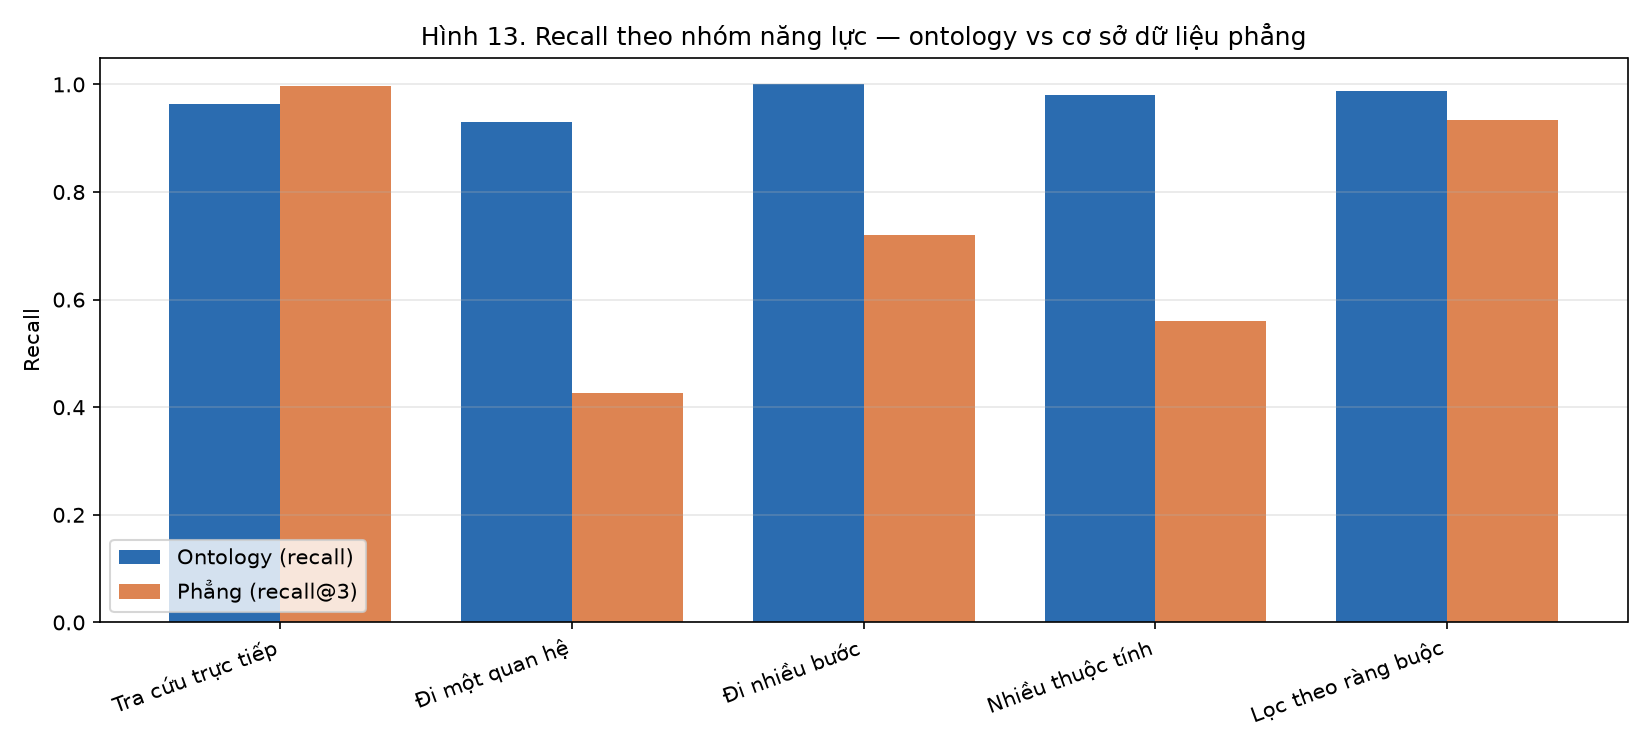
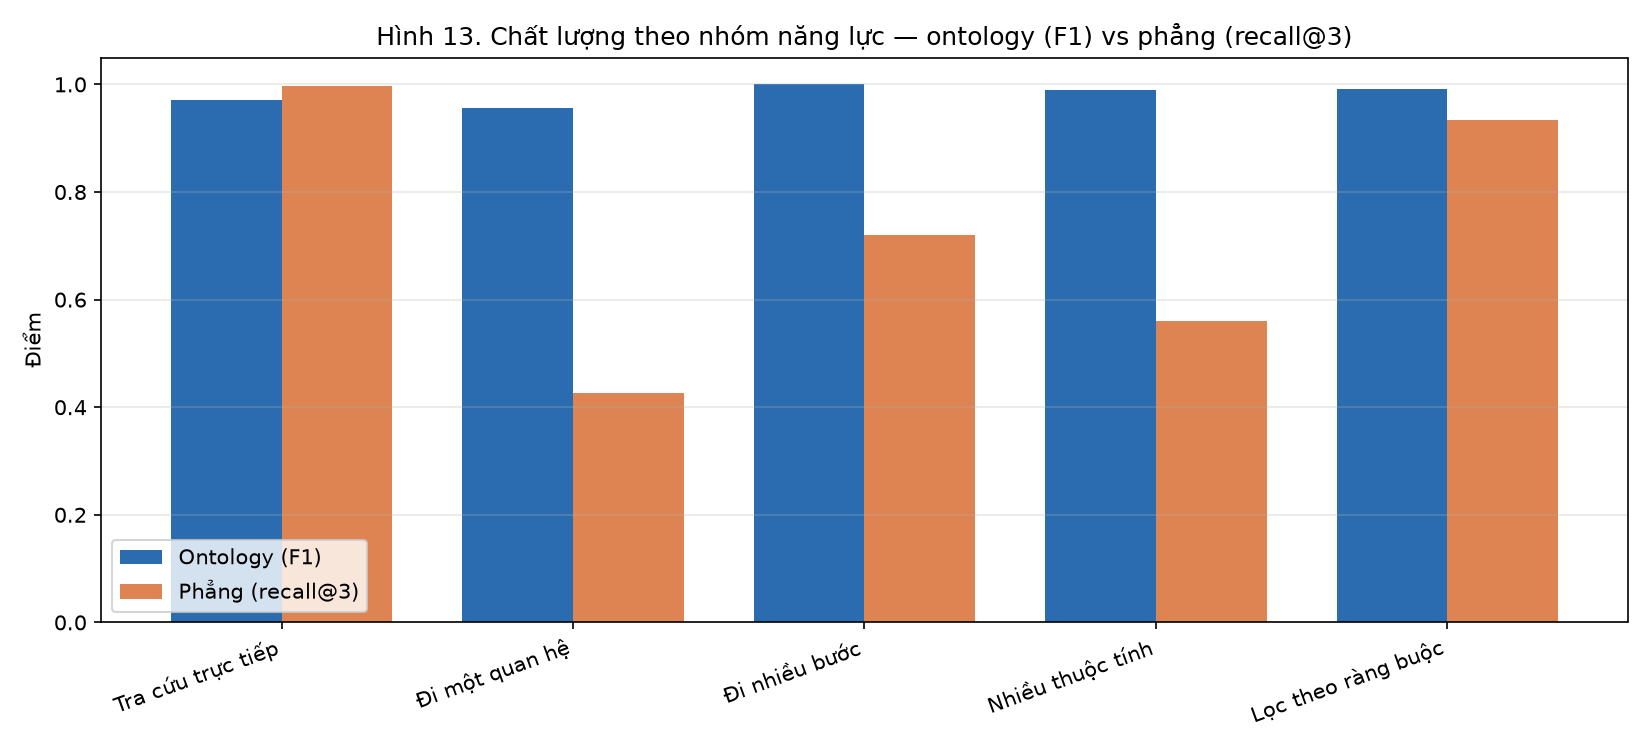
update docs

diff --git a/src/ontchatbot/baseline/figures.py b/src/ontchatbot/baseline/figures.py
@@ -3,7 +3,7 @@
     uv run --extra train python -m ontchatbot.baseline.figures
 
 Đọc ``artifacts/evaluation/benchmark_report.json`` (đã gom theo NHÓM NĂNG LỰC, một phẳng) → 2 PNG:
-* ``benchmark_per_type.png`` (Hình 13): recall theo nhóm năng lực — ontology vs phẳng.
+* ``benchmark_per_type.png`` (Hình 13): chất lượng theo nhóm năng lực — ontology (F1) vs phẳng (recall@3).
 * ``recall_at_k.png`` (Hình 14): đường recall@k của phẳng (k=1/3/5) + mốc recall ontology.
 """
 
@@ -38,19 +38,19 @@ def make_figures() -> None:
     labels = [GROUP_LABEL.get(g, g) for g in groups]
     FIGURES_DIR.mkdir(parents=True, exist_ok=True)
 
-    # ── Hình 13: recall theo nhóm năng lực (ontology vs phẳng) ──
-    ont_recall = [per[g]["ontology"]["recall"] for g in groups]
+    # ── Hình 13: chất lượng theo nhóm năng lực — ontology F1 vs phẳng recall@3 ──
+    ont_f1 = [per[g]["ontology"]["f1"] for g in groups]
     flat_recall = [per[g]["flat"].get("recall@3", 0.0) for g in groups]
     x = np.arange(len(groups))
     w = 0.38
     fig, ax = plt.subplots(figsize=(11, 5))
-    ax.bar(x - w / 2, ont_recall, w, label="Ontology (recall)", color=_ONT_COLOR)
+    ax.bar(x - w / 2, ont_f1, w, label="Ontology (F1)", color=_ONT_COLOR)
     ax.bar(x + w / 2, flat_recall, w, label="Phẳng (recall@3)", color=_FLAT_COLOR)
-    ax.set_ylabel("Recall")
+    ax.set_ylabel("Điểm")
     ax.set_ylim(0, 1.05)
     ax.set_xticks(x)
     ax.set_xticklabels(labels, rotation=20, ha="right")
-    ax.set_title("Hình 13. Recall theo nhóm năng lực — ontology vs cơ sở dữ liệu phẳng")
+    ax.set_title("Hình 13. Chất lượng theo nhóm năng lực — ontology (F1) vs phẳng (recall@3)")
     ax.legend(loc="lower left")
     ax.grid(axis="y", alpha=0.3)
     fig.tight_layout()